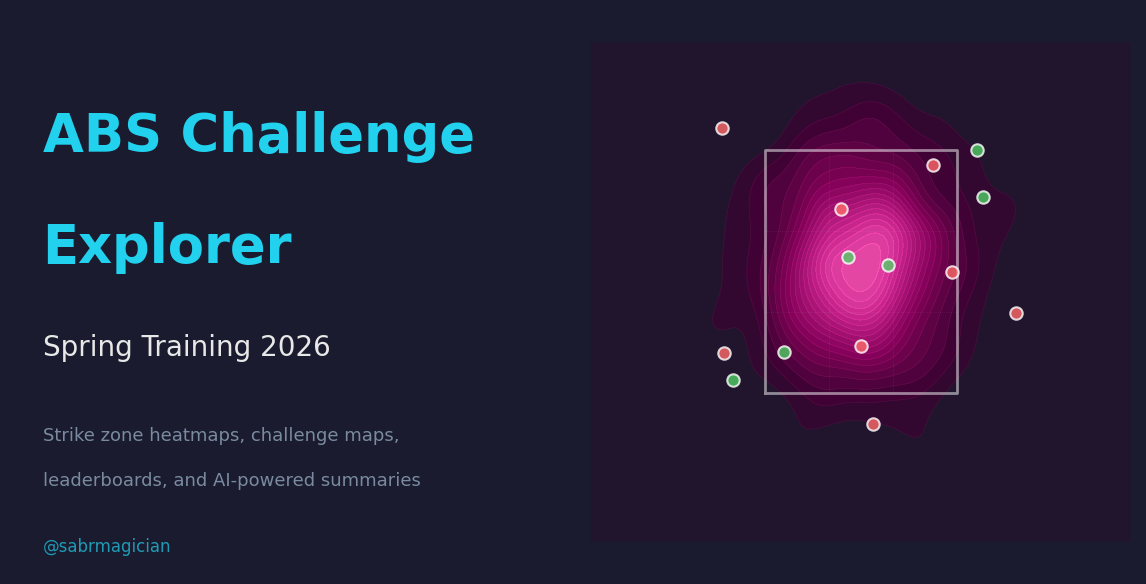
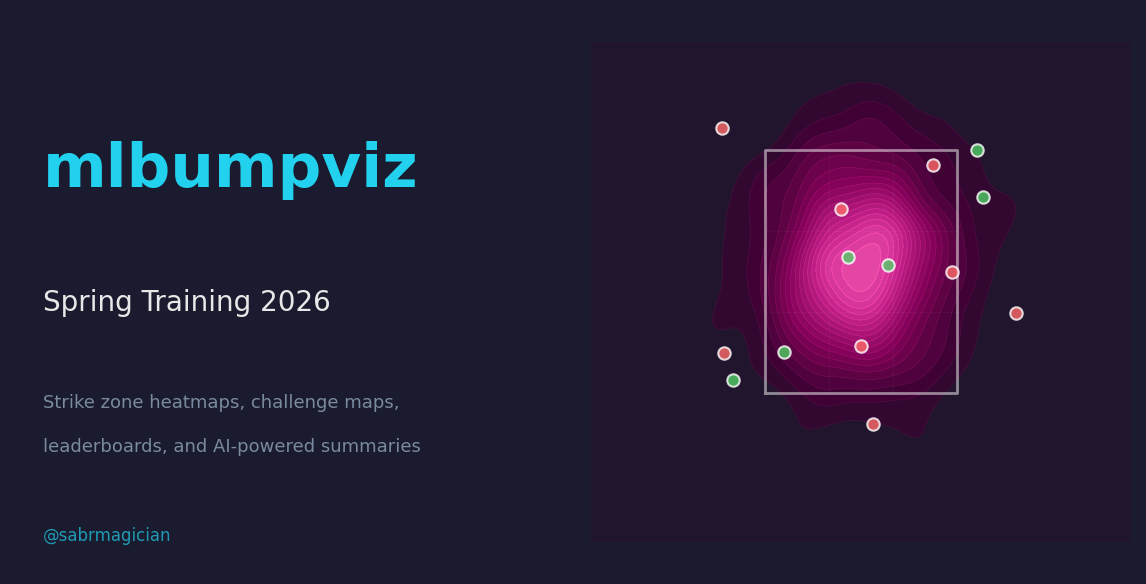
Rebrand preview to mlbumpviz

diff --git a/site/mlbumpviz/index.html b/site/mlbumpviz/index.html
@@ -3,10 +3,10 @@
 <head>
     <meta charset="UTF-8">
     <meta name="viewport" content="width=device-width, initial-scale=1.0">
-    <title>ABS Challenge Explorer - Spring Training 2026</title>
+    <title>mlbumpviz - Spring Training 2026</title>
 
     <!-- Open Graph / iMessage / Social Preview -->
-    <meta property="og:title" content="ABS Challenge Explorer">
+    <meta property="og:title" content="mlbumpviz">
     <meta property="og:description" content="Interactive umpire challenge maps, strike zone heatmaps, leaderboards, and AI-powered summaries for Spring Training 2026.">
     <meta property="og:image" content="https://raw.githubusercontent.com/RParnell93/baseball-analytics/main/site/images/mlbumpviz_preview.png">
     <meta property="og:image:width" content="1200">
@@ -16,7 +16,7 @@
 
     <!-- Twitter Card -->
     <meta name="twitter:card" content="summary_large_image">
-    <meta name="twitter:title" content="ABS Challenge Explorer">
+    <meta name="twitter:title" content="mlbumpviz">
     <meta name="twitter:description" content="Interactive umpire challenge maps, strike zone heatmaps, and AI summaries.">
     <meta name="twitter:image" content="https://raw.githubusercontent.com/RParnell93/baseball-analytics/main/site/images/mlbumpviz_preview.png">
     <meta name="twitter:creator" content="@sabrmagician">
@@ -39,6 +39,6 @@
     </style>
 </head>
 <body>
-    <p>Redirecting to <a href="https://mlbumpviz.streamlit.app/">ABS Challenge Explorer</a>...</p>
+    <p>Redirecting to <a href="https://mlbumpviz.streamlit.app/">mlbumpviz</a>...</p>
 </body>
 </html>
